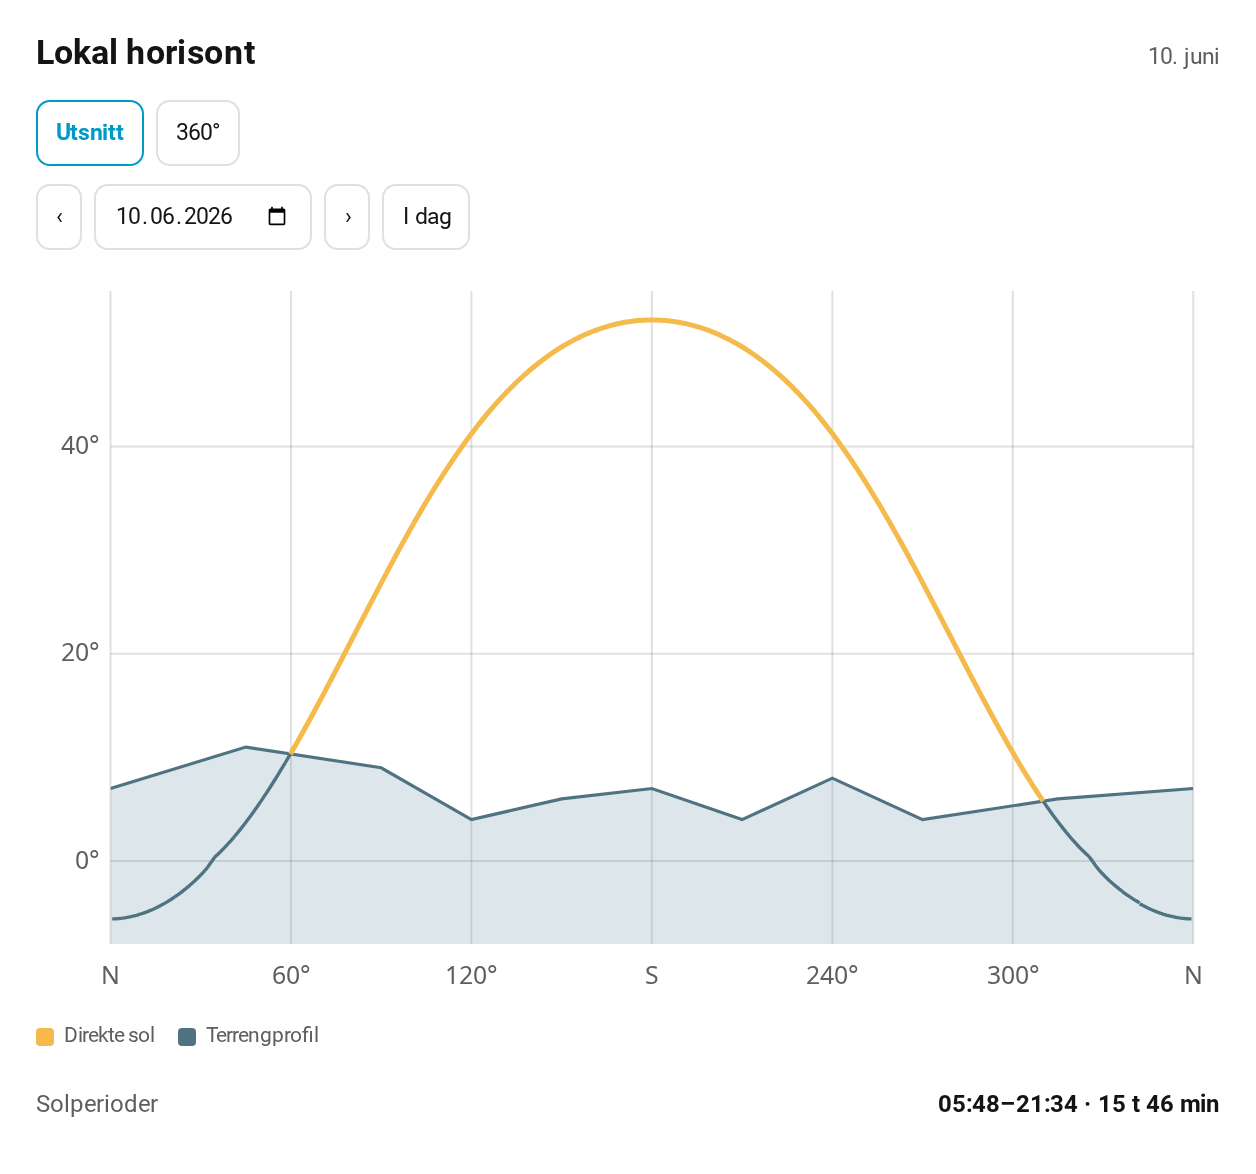
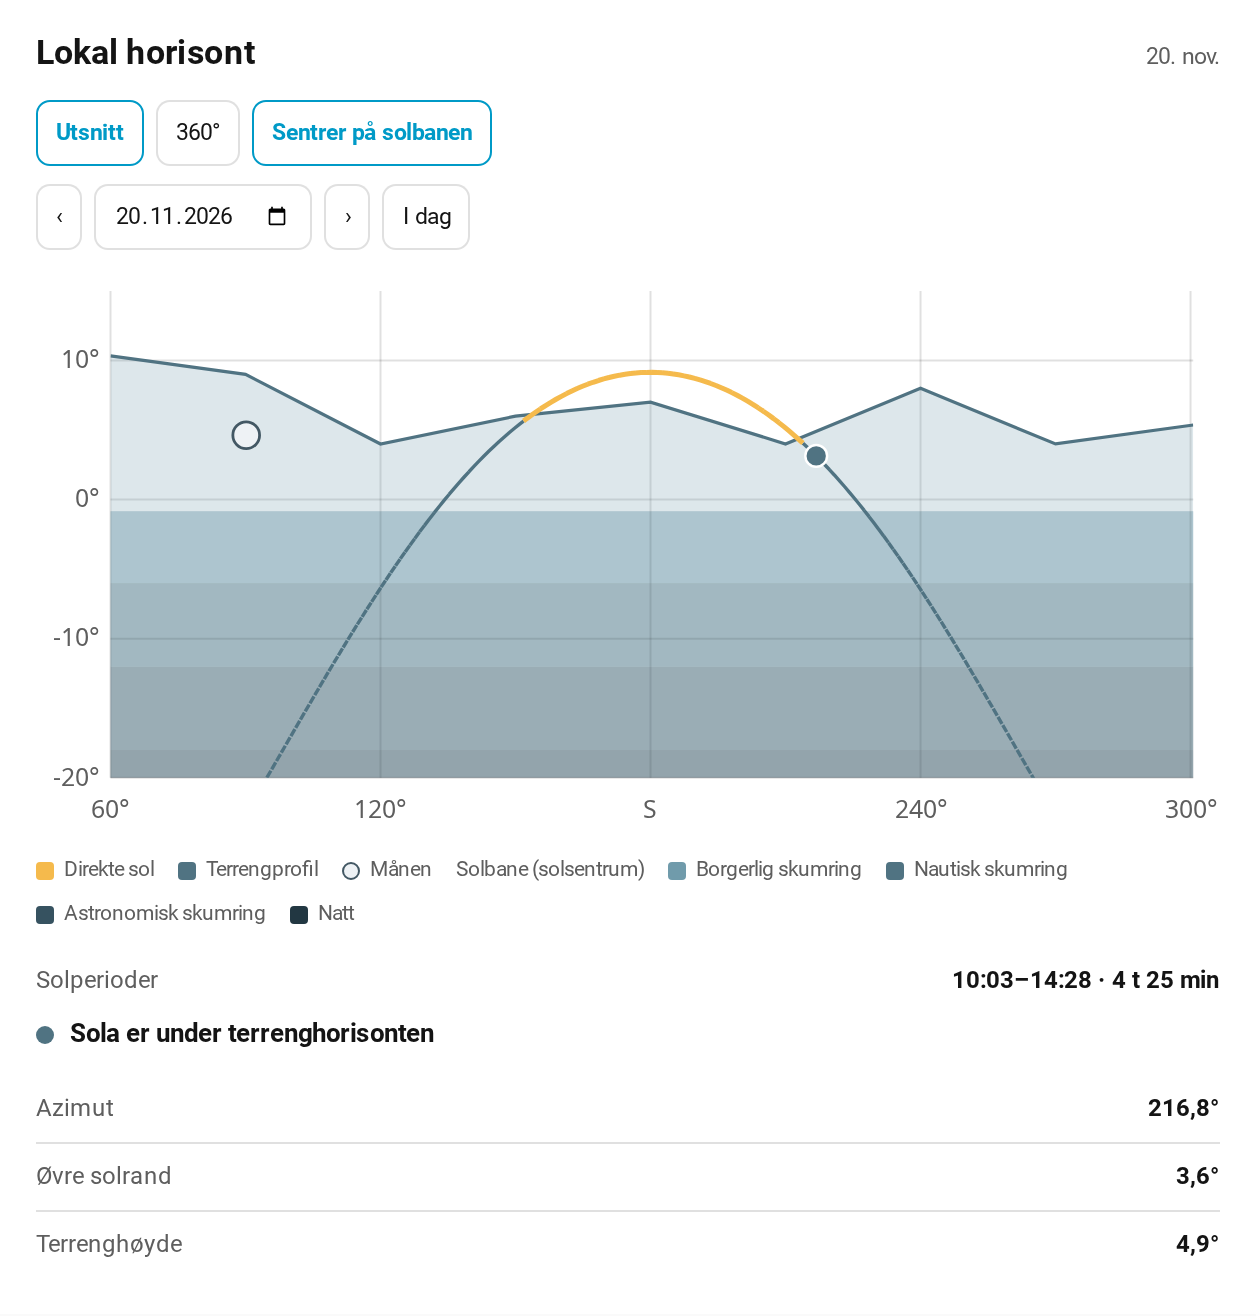
Add horizon chart settings, twilight, and the live Moon
Add three chart heights, independent elevation limits, optional solar centering, and astronomical twilight bands. Show the live Moon whenever its position is inside the chart, including under the terrain line.

diff --git a/custom_components/terrain_sun/frontend/terrain-sun.js b/custom_components/terrain_sun/frontend/terrain-sun.js
@@ -6,6 +6,11 @@ const TYPES = {
 };
 const WORDS = {
   no: {
+    title: "Tittel", graphHeight: "Grafhøyde", compact: "Kompakt", normal: "Normal", tall: "Høy",
+    minElevation: "Nedre gradgrense", maxElevation: "Øvre gradgrense", autoElevation: "La feltet stå tomt for automatisk skalering.",
+    centerSun: "Sentrer på solbanen", showTwilight: "Vis skumring", showMoon: "Vis månen", moon: "Månen",
+    sunCenter: "solsentrum", invalidHeight: "Velg Kompakt, Normal eller Høy.",
+    invalidLimits: "Gradgrensene må være mellom −90° og 90°, med nedre grense under øvre grense.",
     direct: "Direkte sol", terrain_shade: "Dagslys i terrengskygge", daylight: "Dagslengde ved fri horisont",
     daylight_phase: "Dagslys", civil: "Borgerlig skumring", nautical: "Nautisk skumring",
     astronomical: "Astronomisk skumring", night: "Natt", golden: "Gyllen time",
@@ -24,6 +29,11 @@ const WORDS = {
     retry: "Prøv igjen", prev: "Forrige dag", next: "Neste dag", today: "I dag", directions: ["N", "Ø", "S", "V", "N"],
   },
   en: {
+    title: "Title", graphHeight: "Chart height", compact: "Compact", normal: "Normal", tall: "Tall",
+    minElevation: "Lower elevation limit", maxElevation: "Upper elevation limit", autoElevation: "Leave blank for automatic scaling.",
+    centerSun: "Center on the sun path", showTwilight: "Show twilight", showMoon: "Show the moon", moon: "Moon",
+    sunCenter: "sun center", invalidHeight: "Choose Compact, Normal, or Tall.",
+    invalidLimits: "Elevation limits must be between −90° and 90°, with the lower limit below the upper limit.",
     direct: "Direct sun", terrain_shade: "Daylight in terrain shade", daylight: "Daylight with a clear horizon",
     daylight_phase: "Daylight", civil: "Civil twilight", nautical: "Nautical twilight",
     astronomical: "Astronomical twilight", night: "Night", golden: "Golden hour",
@@ -87,6 +97,8 @@ const STYLES = /* css */ `
   .shade-line {stroke:var(--ts-nautical);stroke-width:1.7;stroke-dasharray:4 3;fill:none;vector-effect:non-scaling-stroke}
   .terrain-fill {fill:var(--ts-civil);opacity:.24}
   .terrain-line {stroke:var(--ts-nautical);stroke-width:1.6;fill:none;vector-effect:non-scaling-stroke}
+  .twilight-band {fill-opacity:.44}
+  .moon-marker {fill:#eef2f5;stroke:#435864;stroke-width:1.4;vector-effect:non-scaling-stroke}
   .strip {position:relative;margin-top:9px;height:22px;border-radius:5px;overflow:hidden;background:var(--ts-night)}
   .strip span {position:absolute;height:100%;top:0;display:block}
   .strip i {position:absolute;width:2px;height:100%;background:#fff;box-shadow:0 0 0 1px #21364190}
@@ -94,6 +106,9 @@ const STYLES = /* css */ `
   .legend {display:flex;flex-wrap:wrap;column-gap:12px;row-gap:5px;margin:8px 0;color:var(--ts-muted);font-size:.74rem}
   .legend span {display:inline-flex;align-items:center;gap:5px}
   .legend i {display:inline-block;width:9px;height:9px;border-radius:2px}
+  .legend .moon-key {display:none}
+  .body:has(.moon-marker) .moon-key {display:inline-flex}
+  .legend .moon-key i {background:#eef2f5;border:1px solid #435864;border-radius:50%}
   .day {margin-top:12px;border-top:1px solid var(--ts-line);padding-top:10px}
   .day .controls {margin:0}
   .day label {font-weight:600}
@@ -109,6 +124,9 @@ const STYLES = /* css */ `
 
 const phaseOrder = ["night", "astronomical", "nautical", "civil", "daylight"];
 const legendOrder = ["direct", "daylight", "civil", "nautical", "astronomical", "night"];
+const horizonHeights = {
+  compact: { plot: 171, card: 5 }, normal: { plot: 255, card: 6 }, tall: { plot: 342, card: 7 },
+};
 const f = value => Number(value).toFixed(2);
 const row = (label, value) => `<div class="row"><dt>${label}</dt><dd>${value}</dd></div>`;
 const toggler = (action, label, selected) =>
@@ -118,6 +136,7 @@ const normalize = value => ((value % 360) + 360) % 360;
 const isNorwegian = language => /^(nb|nn|no)(-|$)/i.test(language);
 const pickerLanguage = () =>
   document.querySelector("home-assistant")?.hass?.locale?.language ?? navigator.language;
+const pickerWords = () => WORDS[isNorwegian(pickerLanguage()) ? "no" : "en"];
 const escape = value => String(value).replace(/[&<>"']/g, c =>
   ({ "&": "&amp;", "<": "&lt;", ">": "&gt;", '"': "&quot;", "'": "&#39;" })[c]);
 
@@ -135,7 +154,7 @@ class SolarCard extends HTMLElement {
   static getConfigForm() {
     return {
       schema: [{ name: "title", selector: { text: {} } }],
-      computeLabel: () => isNorwegian(pickerLanguage()) ? "Tittel" : "Title",
+      computeLabel: () => pickerWords().title,
     };
   }
 
@@ -331,22 +350,67 @@ function horizonElevation(profile, azimuth) {
 }
 
 class HorizonCard extends LiveCard {
+  static getConfigForm() {
+    const { schema } = super.getConfigForm();
+    const words = pickerWords();
+    const labels = {
+      title: words.title, graph_height: words.graphHeight, min_elevation: words.minElevation,
+      max_elevation: words.maxElevation, center_sun: words.centerSun,
+      show_twilight: words.showTwilight, show_moon: words.showMoon,
+    };
+    const elevation = { number: { min: -90, max: 90, step: 0.1, mode: "box", unit_of_measurement: "°" } };
+    const options = Object.keys(horizonHeights).map(value => ({ value, label: words[value] }));
+    return {
+      schema: [
+        ...schema,
+        { name: "graph_height", selector: { select: { options, mode: "dropdown" } } },
+        { name: "min_elevation", selector: elevation },
+        { name: "max_elevation", selector: elevation },
+        { name: "center_sun", selector: { boolean: {} } },
+        { name: "show_twilight", selector: { boolean: {} } },
+        { name: "show_moon", selector: { boolean: {} } },
+      ],
+      computeLabel: field => labels[field.name],
+      computeHelper: field => field.selector?.number ? words.autoElevation : undefined,
+    };
+  }
+
   get view() { return "horizon"; }
-  getCardSize() { return 7; }
+  get graphSize() { return horizonHeights[this.config?.graph_height ?? "tall"]; }
+  getCardSize() { return this.graphSize.card; }
   selectedDate = null;
 
+  setConfig(config) {
+    const graph_height = config.graph_height ?? "tall";
+    if (!Object.hasOwn(horizonHeights, graph_height)) throw new Error(pickerWords().invalidHeight);
+    const min_elevation = config.min_elevation === "" ? null : config.min_elevation ?? null;
+    const max_elevation = config.max_elevation === "" ? null : config.max_elevation ?? null;
+    const low = min_elevation ?? -90;
+    const high = max_elevation ?? 90;
+    if (!Number.isFinite(low) || !Number.isFinite(high) || low < -90 || high > 90 || low >= high) {
+      throw new Error(pickerWords().invalidLimits);
+    }
+    const show_moon = config.show_moon === true;
+    const moonChanged = this.config?.show_moon !== show_moon;
+    if (!this.config || this.config.center_sun !== config.center_sun) this.centerSun = config.center_sun === true;
+    super.setConfig({ ...config, graph_height, min_elevation, max_elevation, show_moon });
+    if (this.isConnected && moonChanged) this.refresh();
+  }
+
   async load() {
-    // A date change can arrive while a background refresh is still in flight.
-    let date;
+    // Date and display settings can change while a request is in flight.
+    let date, moon;
+    const current = () => date === this.selectedDate && moon === (this.config?.show_moon === true);
     do {
       date = this.selectedDate;
+      moon = this.config?.show_moon === true;
       try {
-        const data = await request(this._hass, this.view, date ? { date } : {});
-        if (date === this.selectedDate) this.data = data;
+        const data = await request(this._hass, this.view, { ...(date && { date }), moon });
+        if (current()) this.data = data;
       } catch (error) {
-        if (date === this.selectedDate) throw error;
+        if (current()) throw error;
       }
-    } while (date !== this.selectedDate);
+    } while (!current());
   }
 
   async selectDate(date, action) {
@@ -364,6 +428,10 @@ class HorizonCard extends LiveCard {
     if (action === "area" || action === "circle") {
       this.full = action === "circle";
       this.draw();
+    } else if (action === "center-sun") {
+      this.centerSun = !this.centerSun;
+      this.draw();
+      this.shadowRoot.querySelector('[data-action="center-sun"]')?.focus();
     } else if (action === "prev" || action === "next") {
       const input = this.shadowRoot.querySelector('[data-field="day"]');
       const date = offsetDate(this.selectedDate ?? this.data.today, action === "prev" ? -1 : 1);
@@ -379,17 +447,22 @@ class HorizonCard extends LiveCard {
   }
 
   chart() {
-    const { day, profile, azimuth, upper_limb, direct, today } = this.data;
-    const left = 39, right = 606, top = 12, bottom = 354;
-    const summit = day.path.reduce((best, item) => item[2] > best[2] ? item : best);
+    const { day, profile, azimuth, upper_limb, elevation, direct, today, phase_limits, moon } = this.data;
+    const { min_elevation, max_elevation, show_moon } = this.config;
+    const twilight = this.config.show_twilight === true && Array.isArray(phase_limits);
+    const path = twilight ? day.path.map(([time, az, , altitude]) => [time, az, altitude]) : day.path;
+    const left = 39, right = 606, top = 12, bottom = top + this.graphSize.plot;
+    const summit = path.reduce((best, item) => item[2] > best[2] ? item : best);
     const center = summit[1];
     const unwrap = angle => center + normalize(angle - center + 180) - 180;
-    const active = day.path.filter(point => point[2] >= Math.min(-4, summit[2] - 1));
+    const active = path.filter(point => point[2] >= Math.min(twilight ? phase_limits[0] : -4, summit[2] - 1));
     const activeAz = active.map(point => unwrap(point[1]));
     const zoomMin = Math.floor((Math.min(...activeAz) - 18) / 30) * 30;
     const zoomMax = Math.ceil((Math.max(...activeAz) + 18) / 30) * 30;
     const full = this.full || zoomMax - zoomMin >= 360;
-    const [start, stop] = full ? [0, 360] : [zoomMin, zoomMax];
+    const radius = full ? 180 : Math.min(180, Math.max(center - zoomMin, zoomMax - center));
+    const [start, stop] = this.centerSun ? [center - radius, center + radius] : full ? [0, 360] : [zoomMin, zoomMax];
+    const bearing = full && !this.centerSun ? angle => angle : unwrap;
     const profileArc = [[start, horizonElevation(profile, start)]];
     for (const [angle, height] of profile) {
       if (angle === 360) continue;
@@ -400,14 +473,21 @@ class HorizonCard extends LiveCard {
     profileArc.push([stop, horizonElevation(profile, stop)]);
     profileArc.sort((a, b) => a[0] - b[0]);
     const profileHeights = profileArc.map(point => point[1]);
-    const low = Math.min(-8, Math.floor((Math.min(...profileHeights) - 2) / 5) * 5);
-    const high = Math.max(10, Math.ceil((Math.max(summit[2], ...profileHeights) + 2) / 5) * 5);
+    const autoLow = Math.min(twilight ? phase_limits[0] - 2 : -8, Math.floor((Math.min(...profileHeights) - 2) / 5) * 5);
+    const autoHigh = Math.max(10, Math.ceil((Math.max(summit[2], ...profileHeights) + 2) / 5) * 5);
+    const low = min_elevation ?? Math.min(autoLow, Math.max(-90, (max_elevation ?? 90) - 5));
+    const high = max_elevation ?? Math.max(autoHigh, Math.min(90, low + 5));
     const x = angle => left + (angle - start) / (stop - start) * (right - left);
     const y = altitude => bottom - (altitude - low) / (high - low) * (bottom - top);
     const line = profileArc.map(([az, ele], index) => `${index ? "L" : "M"}${f(x(az))},${f(y(ele))}`).join("");
     const grid = [];
-    const verticalStep = high - low > 45 ? 20 : 10;
+    const span = high - low;
+    const verticalStep = span > 45 ? 20 : span > 20 ? 10 : span > 8 ? 5 : span >= 3 ? 2 : 1;
+    const ticks = [];
     for (let height = Math.ceil(low / verticalStep) * verticalStep; height <= high; height += verticalStep) {
+      ticks.push(height);
+    }
+    for (const height of ticks.length > 1 ? ticks : [low, high]) {
       grid.push(`<path class="grid" d="M${left},${f(y(height))}H${right}"/><text class="axis" x="${left - 6}" y="${f(y(height) + 4)}" text-anchor="end">${height}°</text>`);
     }
     const horizontalStep = stop - start >= 240 ? 60 : 30;
@@ -417,20 +497,31 @@ class HorizonCard extends LiveCard {
       grid.push(`<path class="grid" d="M${f(x(angle))},${top}V${bottom}"/><text class="axis" x="${f(x(angle))}" y="${bottom + 21}" text-anchor="middle">${label}</text>`);
     }
     const paths = { sun: [], shade: [] };
-    for (let i = 1; i < day.path.length; i++) {
-      const [aTime, aRaw, aEle] = day.path[i - 1];
-      const [bTime, bRaw, bEle] = day.path[i];
-      const [a, b] = full ? [aRaw, bRaw] : [unwrap(aRaw), unwrap(bRaw)];
+    for (let i = 1; i < path.length; i++) {
+      const [aTime, aRaw, aEle] = path[i - 1];
+      const [bTime, bRaw, bEle] = path[i];
+      const [a, b] = [bearing(aRaw), bearing(bRaw)];
       if (Math.abs(a - b) > 180 || (aEle < low && bEle < low)) continue;
       const middle = (aTime + bTime) / 2;
       const shown = day.direct.some(([from, to]) => from <= middle && middle < to);
       paths[shown ? "sun" : "shade"].push(`M${f(x(a))},${f(y(aEle))}L${f(x(b))},${f(y(bEle))}`);
     }
-    const now = full ? azimuth : unwrap(azimuth);
-    const sunMarker = day.date === today && now >= start && now <= stop && upper_limb >= low
-      ? `<circle cx="${f(x(now))}" cy="${f(y(upper_limb))}" r="5.7" fill="var(${direct ? "--ts-sun" : "--ts-nautical"})" stroke="#fff" stroke-width="1.3"/>` : "";
-    return `<svg class="horizon-plot" viewBox="0 0 620 ${bottom + 32}" role="img" aria-label="${this.l.profile} · ${this.l.sunPath}">
+    const bands = twilight ? phaseOrder.slice(0, -1).map((phase, index) => {
+      const bottom = Math.max(low, phase_limits[index - 1] ?? low);
+      const top = Math.min(high, phase_limits[index]);
+      return top > bottom ? `<rect class="twilight-band tone-${phase}" x="${left}" y="${f(y(top))}" width="${right - left}" height="${f(y(bottom) - y(top))}"><title>${this.l[phase]}</title></rect>` : "";
+    }).join("") : "";
+    const inView = (az, altitude) => az >= start && az <= stop && altitude >= low && altitude <= high;
+    const now = bearing(azimuth);
+    const sunAltitude = twilight ? elevation : upper_limb;
+    const sunMarker = day.date === today && inView(now, sunAltitude)
+      ? `<circle cx="${f(x(now))}" cy="${f(y(sunAltitude))}" r="5.7" fill="var(${direct ? "--ts-sun" : "--ts-nautical"})" stroke="#fff" stroke-width="1.3"/>` : "";
+    const moonBearing = bearing(moon?.azimuth);
+    const moonMarker = day.date === today && show_moon && moon && inView(moonBearing, moon.elevation)
+      ? `<circle class="moon-marker" cx="${f(x(moonBearing))}" cy="${f(y(moon.elevation))}" r="7"><title>${this.l.moon}</title></circle>` : "";
+    return `<svg class="horizon-plot" viewBox="0 0 620 ${bottom + 32}" role="img" aria-label="${this.l.profile} · ${this.l.sunPath}${moonMarker ? ` · ${this.l.moon}` : ""}">
       <defs><clipPath id="horizon-clip"><rect x="${left}" y="${top}" width="${right - left}" height="${bottom - top}"/></clipPath></defs>
+      ${bands}
       ${grid.join("")}
       <g clip-path="url(#horizon-clip)">
         <path class="terrain-fill" d="${line}V${bottom}H${left}Z"/>
@@ -438,6 +529,7 @@ class HorizonCard extends LiveCard {
         <path class="shade-line" d="${paths.shade.join("")}"/>
         <path class="sun-line" d="${paths.sun.join("")}"/>
         ${sunMarker}
+        ${moonMarker}
       </g>
     </svg>`;
   }
@@ -452,10 +544,14 @@ class HorizonCard extends LiveCard {
     const live = day.date === today ? `<p class="status ${direct ? "sun" : ""}"><span></span>${direct ? this.l.sunNow : this.l.behind}</p>
       <dl>${row(this.l.bearing, degrees(azimuth))}${row(this.l.elevation, degrees(upper_limb))}${row(this.l.terrain, degrees(terrain))}</dl>` : "";
     return `<header><h2>${this.title}</h2><span class="date">${this.formatDate(day.date)}</span></header>
-      <div class="controls">${toggler("area", this.l.area, !this.full)}${toggler("circle", this.l.circle, !!this.full)}</div>
+      <div class="controls">${toggler("area", this.l.area, !this.full)}${toggler("circle", this.l.circle, !!this.full)}
+        ${toggler("center-sun", this.l.centerSun, this.centerSun)}</div>
       ${this.dateControls(this.selectedDate ?? today, `${currentYear - 5}-01-01`, `${currentYear + 5}-12-31`)}
       ${this.chart()}
-      <div class="legend"><span><i class="tone-direct"></i>${this.l.direct}</span><span><i class="tone-nautical"></i>${this.l.profile}</span></div>
+      <div class="legend"><span><i class="tone-direct"></i>${this.l.direct}</span><span><i class="tone-nautical"></i>${this.l.profile}</span>
+        ${this.config.show_moon ? `<span class="moon-key"><i></i>${this.l.moon}</span>` : ""}
+        ${this.config.show_twilight === true ? `<span>${this.l.sunPath} (${this.l.sunCenter})</span>` + phaseOrder.slice(0, -1).reverse().map(phase =>
+          `<span><i class="tone-${phase}"></i>${this.l[phase]}</span>`).join("") : ""}</div>
       <dl>${row(this.l.periods, periods)}</dl>
       ${live}`;
   }

diff --git a/custom_components/terrain_sun/engine.py b/custom_components/terrain_sun/engine.py
@@ -10,6 +10,9 @@ from datetime import UTC, date, datetime, time, timedelta
 from itertools import pairwise
 from zoneinfo import ZoneInfo
 
+from astronomy import Body, Equator, Observer, Refraction, Time
+from astronomy import Horizon as equatorial_to_horizontal
+
 SUN_RADIUS = 0.26667
 SUNRISE = -0.833
 PHASE_LIMITS = (-18.0, -12.0, -6.0, SUNRISE)
@@ -183,6 +186,22 @@ class SolarModel:
             azimuth, elevation, elevation + _refraction(elevation) + SUN_RADIUS
         )
 
+    def moon_position(self, now: datetime) -> dict:
+        """Calculate the apparent position of the Moon for this horizon profile."""
+        observer = Observer(self.latitude, self.longitude)
+        utc = now.astimezone(UTC)
+        instant = Time.Make(
+            utc.year, utc.month, utc.day, utc.hour, utc.minute, utc.second
+        )
+        equator = Equator(Body.Moon, instant, observer, ofdate=True, aberration=True)
+        moon = equatorial_to_horizontal(
+            instant, observer, equator.ra, equator.dec, Refraction.Normal
+        )
+        return {
+            "azimuth": moon.azimuth,
+            "elevation": moon.altitude,
+        }
+
     def solstices(self, year: int) -> list[dict[str, str]]:
         """Find the 90° and 270° apparent ecliptic longitude crossings."""
         events = []
@@ -324,7 +343,7 @@ class SolarModel:
         result = []
         for stamp in sorted(stamps):
             pos = self.position(stamp)
-            result.append([stamp, pos.azimuth, pos.upper_limb])
+            result.append([stamp, pos.azimuth, pos.upper_limb, pos.elevation])
         return result
 
 

diff --git a/custom_components/terrain_sun/__init__.py b/custom_components/terrain_sun/__init__.py
@@ -20,7 +20,7 @@ from homeassistant.core import HomeAssistant
 from homeassistant.helpers.update_coordinator import DataUpdateCoordinator
 from homeassistant.loader import async_get_integration
 
-from .engine import Horizon, SolarModel, next_boundary, next_matching_day
+from .engine import PHASE_LIMITS, Horizon, SolarModel, next_boundary, next_matching_day
 
 DOMAIN = "terrain_sun"
 PLATFORMS = (Platform.BINARY_SENSOR, Platform.SENSOR)
@@ -145,6 +145,7 @@ type TerrainConfigEntry = ConfigEntry[TerrainRuntime]
         vol.Required("view"): vol.In(("now", "horizon", "day", "year", "similar_sun")),
         vol.Optional("date"): str,
         vol.Optional("year"): int,
+        vol.Optional("moon"): bool,
     }
 )
 @websocket_api.async_response
@@ -183,6 +184,11 @@ async def _async_get_data(hass, connection, message):
                     }
                 )
                 result["today"] = today.isoformat()
+                result["phase_limits"] = PHASE_LIMITS
+                if day == today and message.get("moon"):
+                    result["moon"] = await hass.async_add_executor_job(
+                        runtime.model.moon_position, now
+                    )
                 profile = runtime.model.horizon
                 result["profile"] = [
                     [0, profile.at(0)],

diff --git a/tests/test_engine.py b/tests/test_engine.py
@@ -72,6 +72,19 @@ class SolarTest(unittest.TestCase):
         self.assertLess(abs((rise.hour * 60 + rise.minute) - (8 * 60 + 33)), 3)
         self.assertLess(abs((setting.hour * 60 + setting.minute) - (15 * 60 + 32)), 3)
 
+    def test_path_includes_both_altitudes_for_horizon_and_twilight(self):
+        model = SolarModel(61.115, 10.466, FLAT, OSLO)
+        day = model.day(date(2026, 11, 20))
+        stamp, azimuth, upper_limb, elevation = max(
+            model.path(day), key=lambda point: point[3]
+        )
+        position = model.position(stamp)
+        self.assertEqual(
+            (azimuth, upper_limb, elevation),
+            (position.azimuth, position.upper_limb, position.elevation),
+        )
+        self.assertGreater(upper_limb, elevation)
+
     def test_ridge_splits_direct_sun(self):
         horizon = Horizon(
             (0, 130, 155, 175, 185, 205, 230, 315), (1, 1, 1, 60, 60, 1, 1, 1)

diff --git a/README.md b/README.md
@@ -27,6 +27,18 @@ Marketplace henter oppdateringer fra GitHub Releases. Start Home Assistant på n
 
 Kort kan også legges til med typen i tabellen. Etter en oppdatering laster du inn Home Assistant-fanen på nytt. Integrasjonen registrerer kortfilen automatisk, også når dashboardressurser styres fra YAML. En eksisterende YAML-oppføring med `/terrain_sun/terrain-sun.js` og typen `module` kan brukes videre.
 
+### Innstillinger for Lokal horisont
+
+Velg innstillingene i den visuelle kortredigeringen, eller bruk de tilsvarende YAML-feltene.
+
+| Innstilling | Felt i YAML | Standard og virkemåte |
+|---|---|---|
+| Grafhøyde | `graph_height` | Høy (`tall`). Velg eventuelt Kompakt (`compact`) eller Normal (`normal`). |
+| Nedre og øvre gradgrense | `min_elevation`, `max_elevation` | Auto for hvert felt som står tomt. Lås én grense for å styre hva som kommer med, eller begge for å sammenligne datoer med samme målestokk. |
+| Vis skumring | `show_twilight` | Av. Fargebåndene følger astronomiske grenser og fargene i Solåret. Grafen viser solsentrum i denne visningen. Direkte sol beregnes ved øvre solrand mot terrenget. |
+| Sentrer på solbanen | `center_sun` | Av. Solbanens høyeste punkt plasseres midt i figuren horisontalt, også i 360°-visningen. Knappen i kortet veksler visningen, og innstillingen angir startvalget. |
+| Vis månen | `show_moon` | Av. For dagens dato vises månens posisjon akkurat nå når den er innenfor figuren, både over og under terrenglinjen. Kortet beregner posisjonen lokalt med [Astronomy Engine](https://pypi.org/project/astronomy-engine/). |
+
 ### Skjermbilder
 
 Kortene er vist i Home Assistant med [eksempelprofilen](examples/horizon.txt).
@@ -37,7 +49,7 @@ Kortene er vist i Home Assistant med [eksempelprofilen](examples/horizon.txt).
 
 #### Lokal horisont
 
-<img src="docs/images/lokal-horisont.webp" width="600" alt="Lokal horisont med datovelger, terrengprofil, solbane og direkte solperioder for valgt dag">
+<img src="docs/images/lokal-horisont.webp" width="600" alt="Lokal horisont med sentrert solbane, skumringsfarger og månemarkør">
 
 #### Solåret
 
